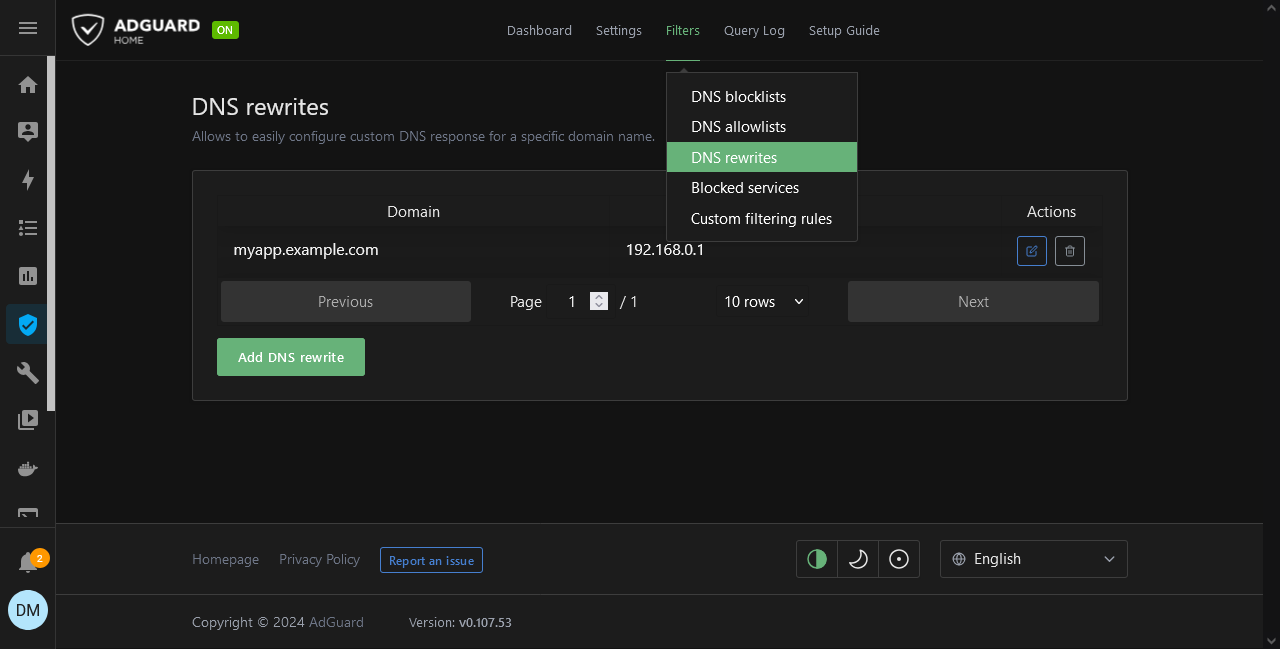
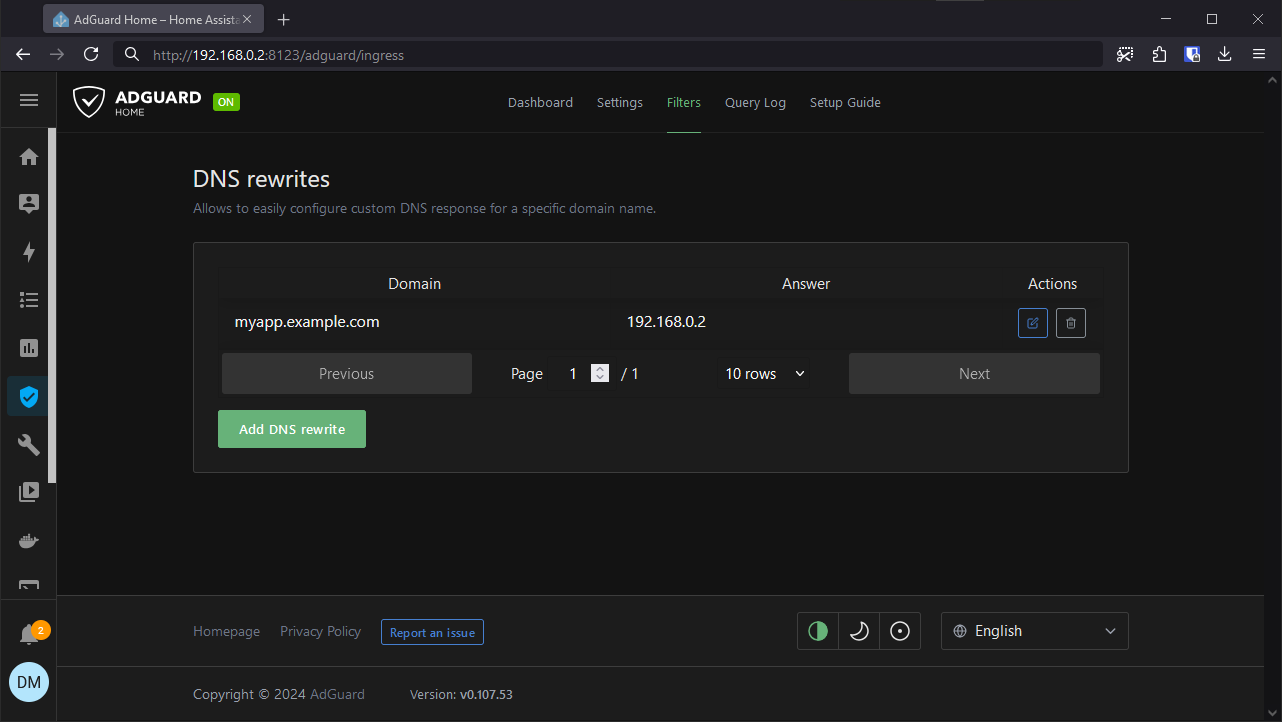
Update docs

diff --git a/docs/reverseproxy.md b/docs/reverseproxy.md
@@ -1,12 +1,42 @@
 # Reverse Proxy
 
+`myapp.example.com:8080`
+
+To make this all work, we need few other components apart from `RPLB`: Router and DNS Server. I'll describe my setup where I have a Raspberry Pi running Home Assistant and AdGuard Home acting as a DNS Server.
+
+## Router
+
+We can use this example from [AdGuard Home](https://github.com/AdguardTeam/AdGuardHome/wiki/Getting-Started). Similar exists for [Pi-hole](https://discourse.pi-hole.net/t/how-do-i-configure-my-devices-to-use-pi-hole-as-their-dns-server/245).
+
+The important thing here is to point the `Primary DNS` on your Router to the IP adress of DNS Server.
+
+Additionally if we use ... `DHCP Reservation`
+
+## DNS Server
+
 Describe how Router has to point to Home Assistant as DNS Server.
 
 Describe how it works together with Home Assistant + AdGuard Home setup
 
+We need to take advantage of DNS filtering, specifically DNS rewrites
+
+https://adguard-dns.io/kb/general/dns-filtering/
+
+https://adguard-dns.io/kb/general/dns-filtering-syntax/#dnsrewrite-modifier
+
 DNS rewrites - Allows to easily configure custom DNS response for a specific domain name.
 
+AdGuard Home has a page where you can do this.
+
 ![adguard-dns-rewrite.png](adguard-dns-rewrite.png)
+
+## RPLB
+[Advanced SSH & Web Terminal](https://github.com/hassio-addons/addon-ssh)
+
+ports 80 and 443 are taken by [NGINX Home Assistant SSL proxy](https://github.com/home-assistant/addons/tree/master/nginx_proxy)
+
+Running this will result in Settings warning `Unsupported system - Unsupported software`
+https://www.home-assistant.io/more-info/unsupported/software
 
 ## How it works?
 

diff --git a/docs/loadbalancing.md b/docs/loadbalancing.md
@@ -48,11 +48,11 @@ This is a good choice if a backend uses in-memory cache that is relevant for a s
 
 ## Least-loaded round robin
 
-Inspired by the [SRE Book](https://sre.google/sre-book/load-balancing-datacenter/#least-loaded-round-robin-WEswh9CN) I was reading at the time.
+Inspired by [this section](https://sre.google/sre-book/load-balancing-datacenter/#least-loaded-round-robin-WEswh9CN) in the SRE book I was reading at the time.
 
 ### Why use it?
 
-This is an alternative to round robin when some requests take longer time to resolve. This prevents the scenario when all heavy requests would hit the same backend, but are rather spread out across all other available backends.
+This is an alternative to round robin when some requests take longer time to resolve. This prevents the scenario when all heavy requests would hit the same backend. Instead the load is spread out across all other available backends.
 
 ### Screenshot
 
